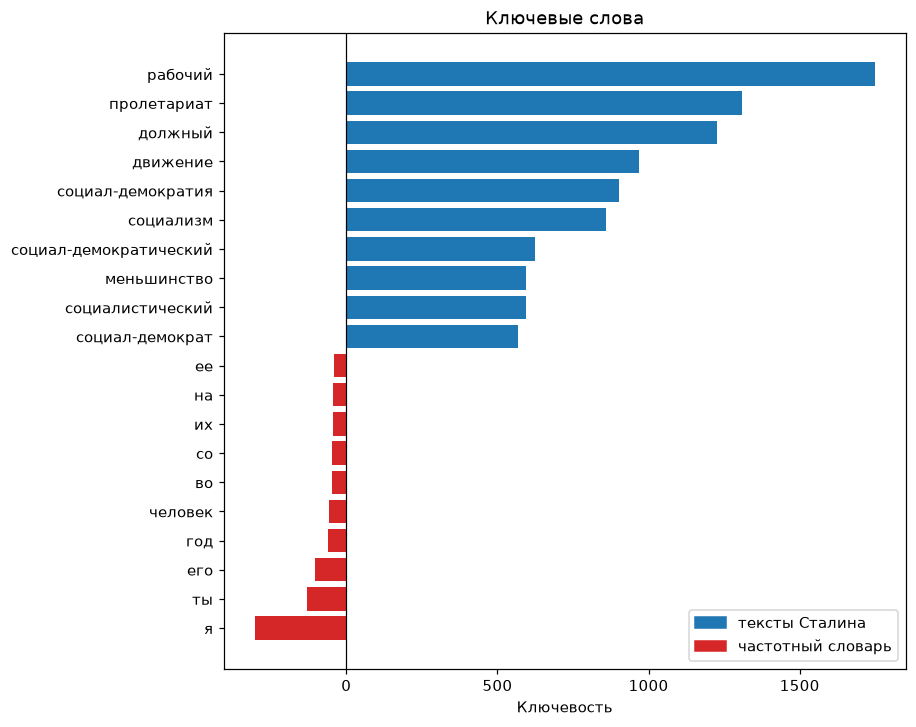
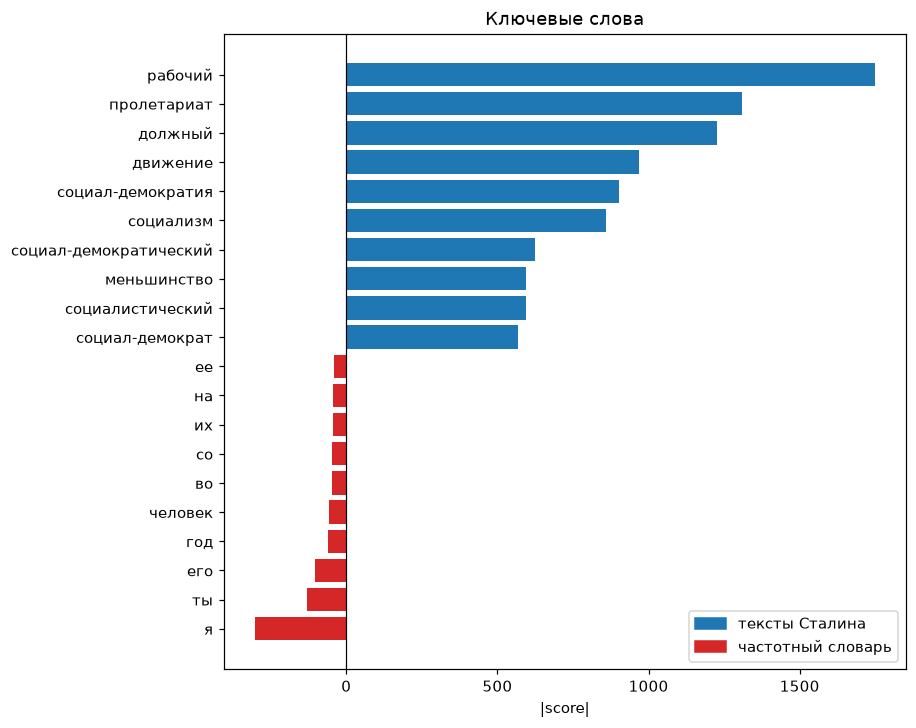
Учесть замечания к графикам
keyness_plot определяет сторону столбца по списку (positive - вправо,
negative - влево), а длину - по модулю значения поля field (score, g2,
log_ratio), бесконечные и неопределенные значения пропускает через
isfinite; для отношения шансов log=True откладывает модуль log2.
sentence_lengths принимает любую последовательность целых чисел
по numbers.Integral - списки, массивы numpy, Series, итераторы.

diff --git a/ruts/visualizers/corpus.py b/ruts/visualizers/corpus.py
@@ -1,6 +1,6 @@
 from collections import Counter
 from collections.abc import Sequence
-from math import isnan
+from math import isfinite, isnan, log2, nan
 
 import matplotlib.pyplot as plt
 from graphviz import Graph
@@ -58,32 +58,41 @@ def keyness_plot(
     negative: Sequence[Keyword] = (),
     top_n: int = 20,
     labels: tuple[str, str] = ("целевой корпус", "эталонный корпус"),
+    field: str = "score",
+    log: bool = False,
     ax: Axes | None = None,
 ) -> Axes:
     """
     Построение диаграммы ключевых слов
 
     Описание:
-        Расходящиеся горизонтальные столбцы значений score (quanteda
-        textplot_keyness): положительные ключевые слова вправо, отрицательные -
-        влево; по top_n слов с каждой стороны, слова с неопределенной мерой
-        пропускаются
+        Расходящиеся горизонтальные столбцы (quanteda textplot_keyness): слова
+        из positive вправо, из negative - влево, длина столбца - модуль значения
+        поля field (score, g2, log_ratio), так что сторона задается списком, а не
+        знаком меры; по top_n слов с каждой стороны, слова с неопределенным
+        или бесконечным значением пропускаются. Для отношения шансов
+        (score от 0 до бесконечности, единица - шансы равны) задайте log=True:
+        откладывается модуль log2 значения, симметричный относительно единицы
 
     Аргументы:
         positive (list[Keyword]): Положительные ключевые слова (keyness)
         negative (list[Keyword]): Отрицательные ключевые слова (keyness с positive=False)
         top_n (int): Количество слов с каждой стороны
         labels (tuple[str, str]): Подписи легенды для целевого и эталонного корпусов
+        field (str): Поле Keyword, значения которого откладываются
+        log (bool): Откладывать log2 значения - для отношения шансов
         ax (Axes): Оси для графика; если не заданы, создается новая фигура
 
     Вывод:
         Axes: Оси с диаграммой
 
     Исключения:
-        ValueError: Если ключевых слов нет
+        ValueError: Если ключевых слов нет или поле неизвестно
     """
-    top = [keyword for keyword in positive if not isnan(keyword.score)][:top_n]
-    bottom = [keyword for keyword in negative if not isnan(keyword.score)][:top_n]
+    if field not in Keyword._fields[1:]:
+        raise ValueError(f"Неизвестное поле ключевого слова: {field}")
+    top = _bars(positive, field, log, 1)[:top_n]
+    bottom = _bars(negative, field, log, -1)[:top_n]
     keywords = top + bottom[::-1]
     if not keywords:
         raw = list(positive) + list(negative)
@@ -94,11 +103,11 @@ def keyness_plot(
         _, ax = plt.subplots(figsize=(8, 0.3 * len(keywords) + 1.5))
     rows = range(len(keywords))
     colors = ["tab:blue"] * len(top) + ["tab:red"] * len(bottom)
-    ax.barh(rows, [keyword.score for keyword in keywords], color=colors)
-    ax.set_yticks(rows, labels=[keyword.word for keyword in keywords])
+    ax.barh(rows, [value for _, value in keywords], color=colors)
+    ax.set_yticks(rows, labels=[keyword.word for keyword, _ in keywords])
     ax.invert_yaxis()
     ax.axvline(0, color="black", linewidth=0.8)
-    ax.set_xlabel("Ключевость")
+    ax.set_xlabel(f"|log2({field})|" if log else f"|{field}|")
     ax.set_title("Ключевые слова")
     handles = [Patch(color="tab:blue")]
     legend_labels = [labels[0]]
@@ -107,6 +116,19 @@ def keyness_plot(
         legend_labels.append(labels[1])
     ax.legend(handles, legend_labels)
     return ax
+
+
+def _bars(
+    keywords: Sequence[Keyword], field: str, log: bool, sign: int
+) -> list[tuple[Keyword, float]]:
+    bars = []
+    for keyword in keywords:
+        value = float(getattr(keyword, field))
+        if log:
+            value = log2(value) if value > 0 else nan
+        if isfinite(value):
+            bars.append((keyword, sign * abs(value)))
+    return bars
 
 
 def collocation_network(collocations: Sequence[Collocation], top_n: int | None = None) -> Graph:

diff --git a/ruts/visualizers/sentences.py b/ruts/visualizers/sentences.py
@@ -1,4 +1,5 @@
-from collections.abc import Sequence
+from collections.abc import Iterable
+from numbers import Integral
 
 import matplotlib.pyplot as plt
 import numpy as np
@@ -10,7 +11,7 @@ from ..utils import iter_doc_words
 
 
 def sentence_lengths_plot(
-    source: str | Doc | Sequence[int],
+    source: str | Doc | Iterable[int],
     window: int = 10,
     inset: bool = True,
     ax: Axes | None = None,
@@ -25,7 +26,8 @@ def sentence_lengths_plot(
         предложений, готовый список длин используется как есть
 
     Аргументы:
-        source (str|Doc|list[int]): Текст, объект Doc или длины предложений
+        source (str|Doc|Iterable[int]): Текст, объект Doc или длины предложений
+            (список, массив numpy, Series)
         window (int): Окно скользящего среднего в предложениях
         inset (bool): Показывать врезку с гистограммой
         ax (Axes): Оси для графика; если не заданы, создается новая фигура
@@ -68,12 +70,13 @@ def sentence_lengths_plot(
     return ax
 
 
-def sentence_lengths(source: str | Doc | Sequence[int]) -> list[int]:
+def sentence_lengths(source: str | Doc | Iterable[int]) -> list[int]:
     """
     Извлечение длин предложений в словах
 
     Аргументы:
-        source (str|Doc|list[int]): Текст, объект Doc или готовые длины
+        source (str|Doc|Iterable[int]): Текст, объект Doc или готовые длины -
+            любая последовательность целых чисел, в том числе массив numpy и Series
 
     Вывод:
         list[int]: Длины предложений по порядку; предложения без слов пропускаются
@@ -90,6 +93,8 @@ def sentence_lengths(source: str | Doc | Sequence[int]) -> list[int]:
             lengths = [sum(1 for _ in iter_doc_words(sent)) for sent in source.sents]
             return [length for length in lengths if length]
         return sentence_lengths(source.text)
-    if isinstance(source, Sequence) and all(isinstance(length, int) for length in source):
-        return [int(length) for length in source]
+    if isinstance(source, Iterable):
+        lengths = list(source)
+        if all(isinstance(length, Integral) for length in lengths):
+            return [int(length) for length in lengths]
     raise TypeError("Некорректный источник данных")

diff --git a/tests/visualizers/test_corpus.py b/tests/visualizers/test_corpus.py
@@ -1,4 +1,4 @@
-from math import nan
+from math import inf, log2, nan
 
 import matplotlib
 import matplotlib.pyplot as plt
@@ -43,18 +43,43 @@ def test_keyness_plot():
     assert labels[3:] == [keyword.word for keyword in negative[:3]][::-1]
     widths = [patch.get_width() for patch in ax.patches]
     assert widths[:3] == [keyword.score for keyword in positive[:3]]
+    assert widths[3:] == [keyword.score for keyword in negative[:3]][::-1]
     assert all(width < 0 for width in widths[3:])
     assert [text.get_text() for text in ax.get_legend().get_texts()] == ["кот", "собака"]
     assert ax.get_title() == "Ключевые слова"
+    assert ax.get_xlabel() == "|score|"
     ax = keyness_plot(positive)
     assert len(ax.patches) == len(positive)
     assert [text.get_text() for text in ax.get_legend().get_texts()] == ["целевой корпус"]
     undefined = [Keyword("а", 1, 0, 1.0, 0.0, 1.0, 0.5, 1.0, nan)]
-    assert len(keyness_plot(positive + undefined).patches) == len(positive)
+    infinite = [Keyword("б", 1, 0, 1.0, 0.0, 1.0, 0.5, 1.0, inf)]
+    assert len(keyness_plot(positive + undefined + infinite).patches) == len(positive)
     with pytest.raises(ValueError):
         keyness_plot([])
     with pytest.raises(ValueError):
         keyness_plot(undefined)
+    with pytest.raises(ValueError):
+        keyness_plot(positive, field="word")
+    plt.close("all")
+
+
+def test_keyness_plot_sides():
+    positive = keyness(target, reference, measure="odds_ratio")
+    negative = keyness(target, reference, measure="odds_ratio", positive=False)
+    ax = keyness_plot(positive, negative, top_n=2, log=True)
+    widths = [patch.get_width() for patch in ax.patches]
+    assert widths[:2] == [pytest.approx(abs(log2(keyword.score))) for keyword in positive[:2]]
+    assert (
+        widths[2:] == [pytest.approx(-abs(log2(keyword.score))) for keyword in negative[:2]][::-1]
+    )
+    assert ax.get_xlabel() == "|log2(score)|"
+    ax = keyness_plot(positive, negative, top_n=2, field="log_ratio")
+    widths = [patch.get_width() for patch in ax.patches]
+    assert widths[:2] == [abs(keyword.log_ratio) for keyword in positive[:2]]
+    assert all(width < 0 for width in widths[2:])
+    weak = [Keyword("а", 1, 0, 1.0, 0.0, 1.0, 0.5, 1.0, -2.0)]
+    assert keyness_plot(weak, weak).patches[0].get_width() == 2.0
+    assert keyness_plot(weak, weak).patches[1].get_width() == -2.0
     plt.close("all")
 
 

diff --git a/tests/visualizers/test_sentences.py b/tests/visualizers/test_sentences.py
@@ -1,5 +1,7 @@
 import matplotlib
 import matplotlib.pyplot as plt
+import numpy as np
+import pandas as pd
 import pytest
 import spacy
 from matplotlib.axes import Axes
@@ -18,9 +20,15 @@ def test_sentence_lengths():
     nlp.add_pipe("sentencizer")
     assert sentence_lengths(nlp(text)) == [4, 7, 2, 7]
     assert sentence_lengths([3, 5, 2]) == [3, 5, 2]
+    assert sentence_lengths(np.array([3, 5, 2])) == [3, 5, 2]
+    assert sentence_lengths(pd.Series([3, 5, 2])) == [3, 5, 2]
+    assert sentence_lengths((np.int64(3), np.int32(5))) == [3, 5]
+    assert sentence_lengths(iter([3, 5])) == [3, 5]
     assert sentence_lengths("") == []
     with pytest.raises(TypeError):
         sentence_lengths(["кот", "спал"])
+    with pytest.raises(TypeError):
+        sentence_lengths([3.5, 2])
     with pytest.raises(TypeError):
         sentence_lengths(42)
 

diff --git a/docs/visualizers/sentences.md b/docs/visualizers/sentences.md
@@ -5,13 +5,13 @@
 
 ## Описание
 
-Кривая длин предложений - ритм текста: длина каждого предложения в словах по порядку, скользящее среднее по окну из `window` предложений и врезка с гистограммой длин. Чередование коротких и длинных предложений - редакторский признак живого текста, ровная кривая - монотонного. `sentence_lengths` извлекает длины: предложения строки - razdel, объекта `Doc` - по границам предложений (без границ - по тексту), готовый список длин используется как есть; предложения без слов пропускаются. Функция принимает оси `ax` и возвращает `Axes`.
+Кривая длин предложений - ритм текста: длина каждого предложения в словах по порядку, скользящее среднее по окну из `window` предложений и врезка с гистограммой длин. Чередование коротких и длинных предложений - редакторский признак живого текста, ровная кривая - монотонного. `sentence_lengths` извлекает длины: предложения строки - razdel, объекта `Doc` - по границам предложений (без границ - по тексту), готовые длины - любая последовательность целых чисел, в том числе массив numpy и Series - используются как есть; предложения без слов пропускаются. Функция принимает оси `ax` и возвращает `Axes`.
 
 ## Параметры
 
 | Параметр | Тип | По умолчанию | Описание |
 | :------: | :-: | :----------: | :------: |
-| `source` | str/Doc/list[int] | `-` | Текст, объект Doc или длины предложений |
+| `source` | str/Doc/Iterable[int] | `-` | Текст, объект Doc или длины предложений (список, массив numpy, Series) |
 | `window` | int | `10` | Окно скользящего среднего в предложениях |
 | `inset` | bool | `True` | Показывать врезку с гистограммой |
 | `ax` | Axes | `None` | Оси для графика |

diff --git a/docs/visualizers/corpus.md b/docs/visualizers/corpus.md
@@ -19,7 +19,7 @@
 
 ## Диаграмма ключевых слов { #keyness_plot }
 
-Расходящиеся горизонтальные столбцы `score` (quanteda `textplot_keyness`): положительные ключевые слова вправо, отрицательные (результат `keyness` с `positive=False`) влево, по `top_n` слов с каждой стороны; слова с неопределенной мерой пропускаются.
+Расходящиеся горизонтальные столбцы (quanteda `textplot_keyness`): слова из `positive` вправо, из `negative` (результат `keyness` с `positive=False`) влево, длина столбца - модуль значения поля `field` (`score`, `g2`, `log_ratio`), так что сторона задается списком, а не знаком меры; по `top_n` слов с каждой стороны, слова с неопределенным или бесконечным значением пропускаются. Для отношения шансов (`score` от 0 до бесконечности, единица - шансы равны) задайте `log=True`: откладывается модуль $\log_2$ значения, симметричный относительно единицы.
 
 | Параметр | Тип | По умолчанию | Описание |
 | :------: | :-: | :----------: | :------: |
@@ -27,6 +27,8 @@
 | `negative` | list[Keyword] | `()` | Отрицательные ключевые слова |
 | `top_n` | int | `20` | Количество слов с каждой стороны |
 | `labels` | tuple[str, str] | `("целевой корпус", "эталонный корпус")` | Подписи легенды |
+| `field` | str | `score` | Поле `Keyword`, значения которого откладываются |
+| `log` | bool | `False` | Откладывать $\log_2$ значения - для отношения шансов |
 | `ax` | Axes | `None` | Оси для графика |
 
 ## Сеть коллокаций { #collocation_network }
